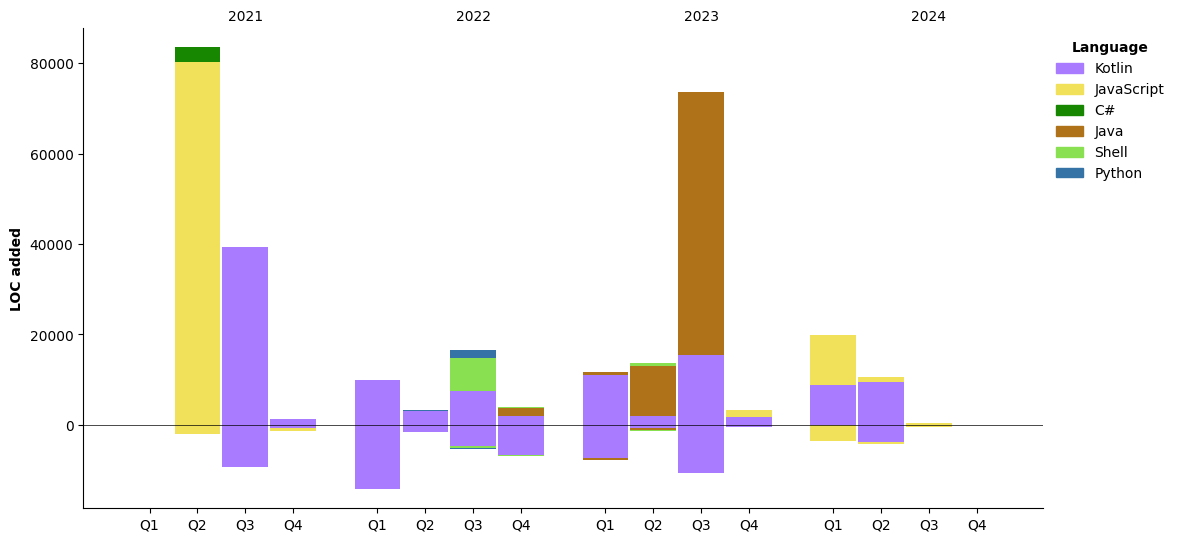
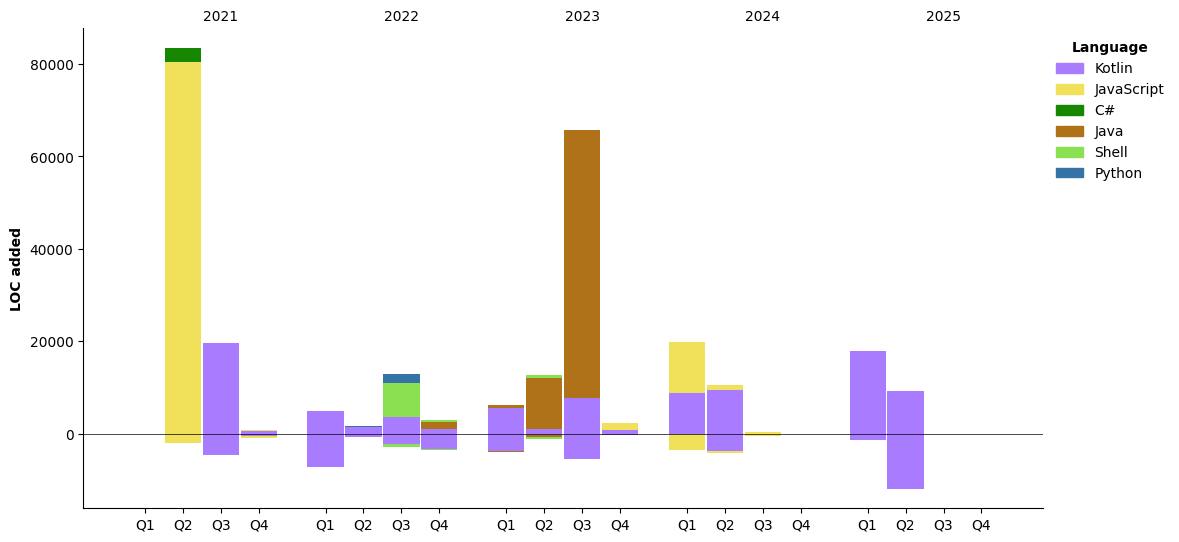
Updated with Dev Metrics

diff --git a/README.md b/README.md
@@ -2,15 +2,15 @@
 [![willianrod's wakatime stats](https://github-readme-stats.kituin.fun/api/wakatime?username=GreenDog&langs_count=8&layout=compact&hide=Other,Binary,JSON,Markdown)](https://wakatime.com/@GreenDog)
 
 <!--START_SECTION:waka-->
-![Code Time](http://img.shields.io/badge/Code%20Time-1%2C477%20hrs%2035%20mins-blue)
+![Code Time](http://img.shields.io/badge/Code%20Time-2%2C142%20hrs%2021%20mins-blue)
 
-![Lines of code](https://img.shields.io/badge/From%20Hello%20World%20I%27ve%20Written-291.4%20thousand%20lines%20of%20code-blue)
+![Lines of code](https://img.shields.io/badge/From%20Hello%20World%20I%27ve%20Written-271.8%20thousand%20lines%20of%20code-blue)
 
 **Timeline**
 
 ![Lines of Code chart](https://raw.githubusercontent.com/2891954521/2891954521/main/assets/bar_graph.png)
 
 
- Last Updated on 2024-12-01 05:37:38 UTC
+ Last Updated on 2025-04-27 09:59:16 UTC
 <!--END_SECTION:waka-->
 
